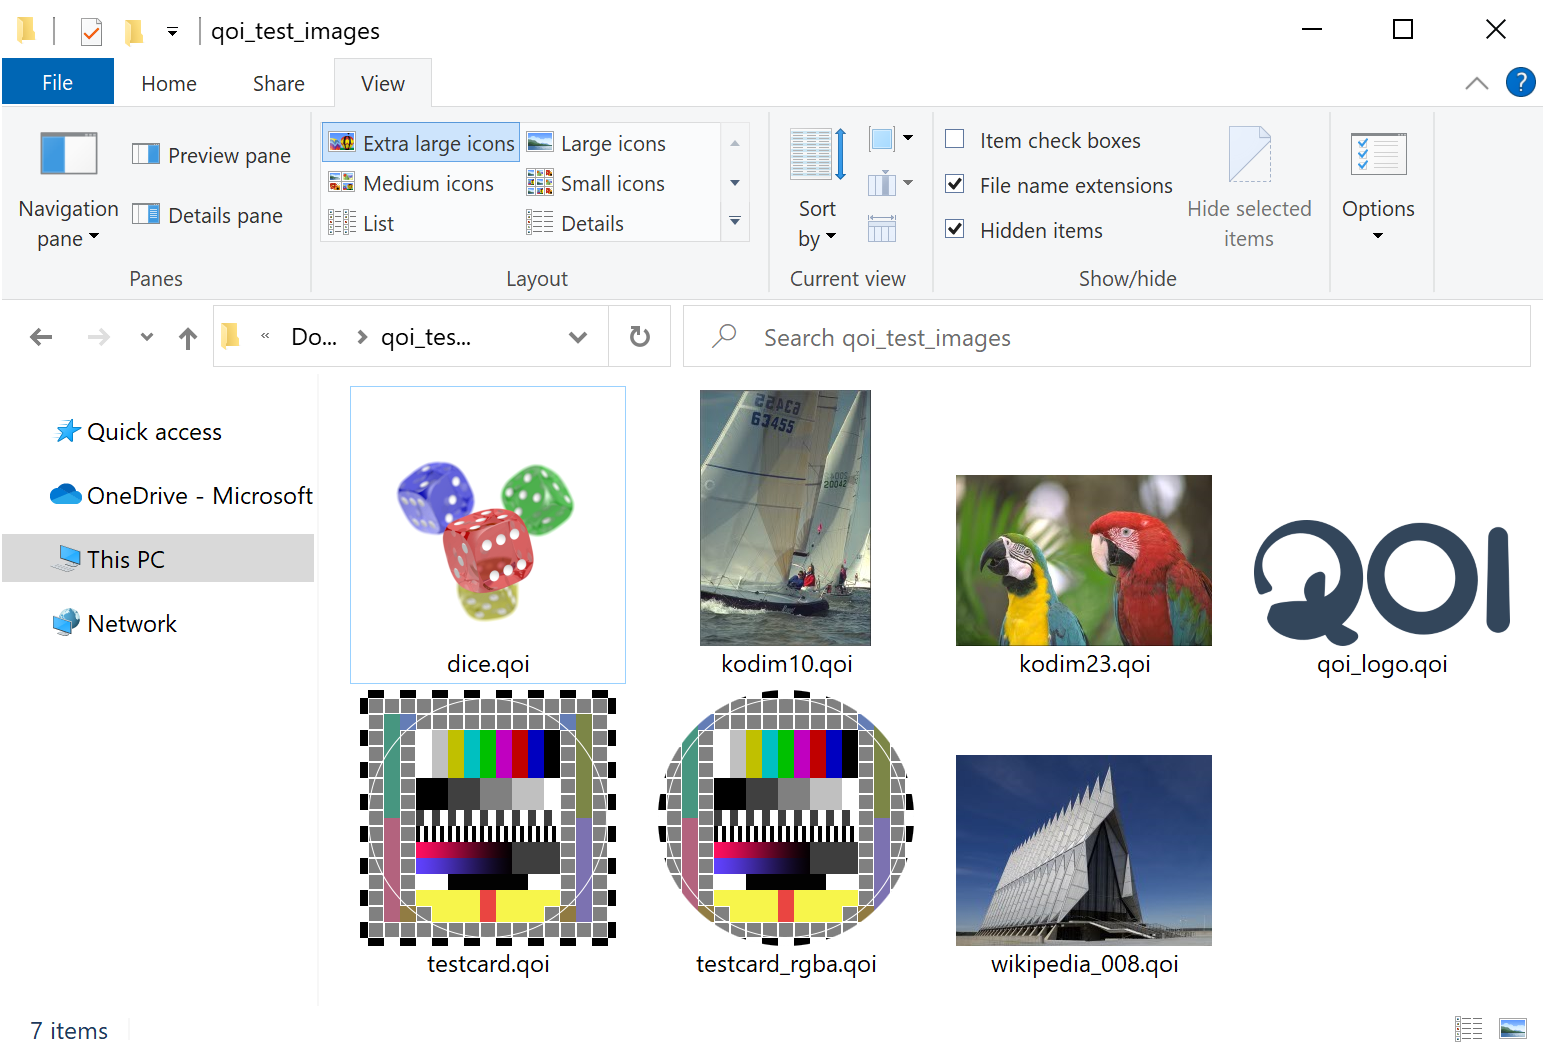
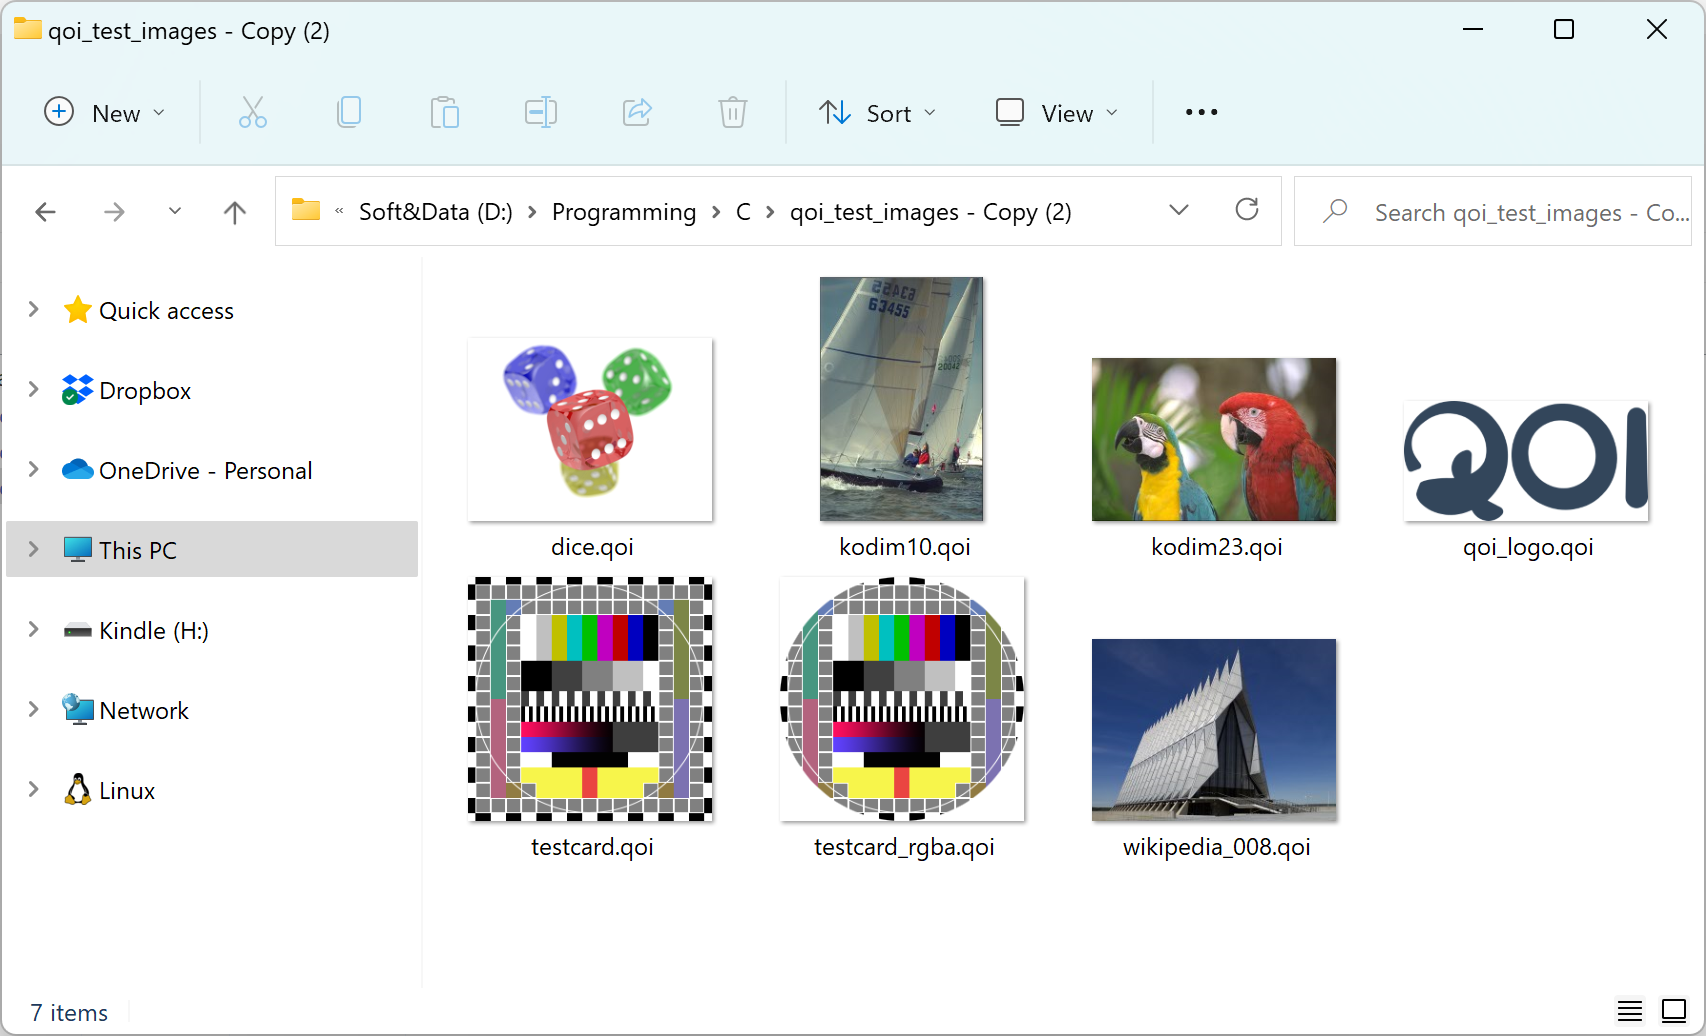
+ added PerceivedType parameter so that Windows applies same effects to QOI previews, as it does to all images types * updated QOI thumbnails screenshot

diff --git a/Dll.cpp b/Dll.cpp
@@ -180,6 +180,7 @@ STDAPI DllRegisterServer() {
             {HKEY_CURRENT_USER, L"Software\\Classes\\CLSID\\" SZ_CLSID_QOITHUMBHANDLER,                      nullptr,           SZ_QOITHUMBHANDLER},
             {HKEY_CURRENT_USER, L"Software\\Classes\\CLSID\\" SZ_CLSID_QOITHUMBHANDLER L"\\InProcServer32",  nullptr,           szModuleName},
             {HKEY_CURRENT_USER, L"Software\\Classes\\CLSID\\" SZ_CLSID_QOITHUMBHANDLER L"\\InProcServer32",  L"ThreadingModel", L"Apartment"},
+            {HKEY_CURRENT_USER, L"Software\\Classes\\.qoi",                                                  L"PerceivedType",  L"image"},
             {HKEY_CURRENT_USER, L"Software\\Classes\\.qoi\\ShellEx\\{e357fccd-a995-4576-b01f-234630154e96}", nullptr,           SZ_CLSID_QOITHUMBHANDLER},
         };
 
@@ -204,7 +205,7 @@ STDAPI DllUnregisterServer() {
 
     const PCWSTR regKeys[] = {
         L"Software\\Classes\\CLSID\\" SZ_CLSID_QOITHUMBHANDLER,
-        L"Software\\Classes\\.qoi\\ShellEx\\{e357fccd-a995-4576-b01f-234630154e96}"
+        L"Software\\Classes\\.qoi"
     };
 
     // Delete the registry entries
